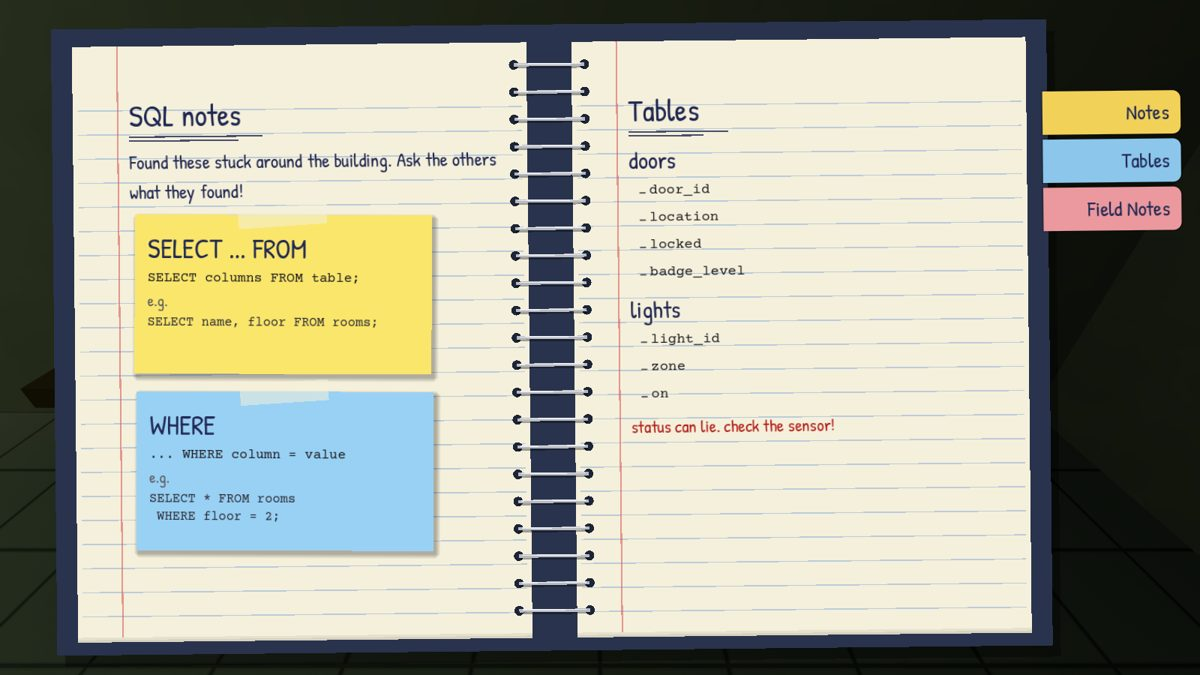
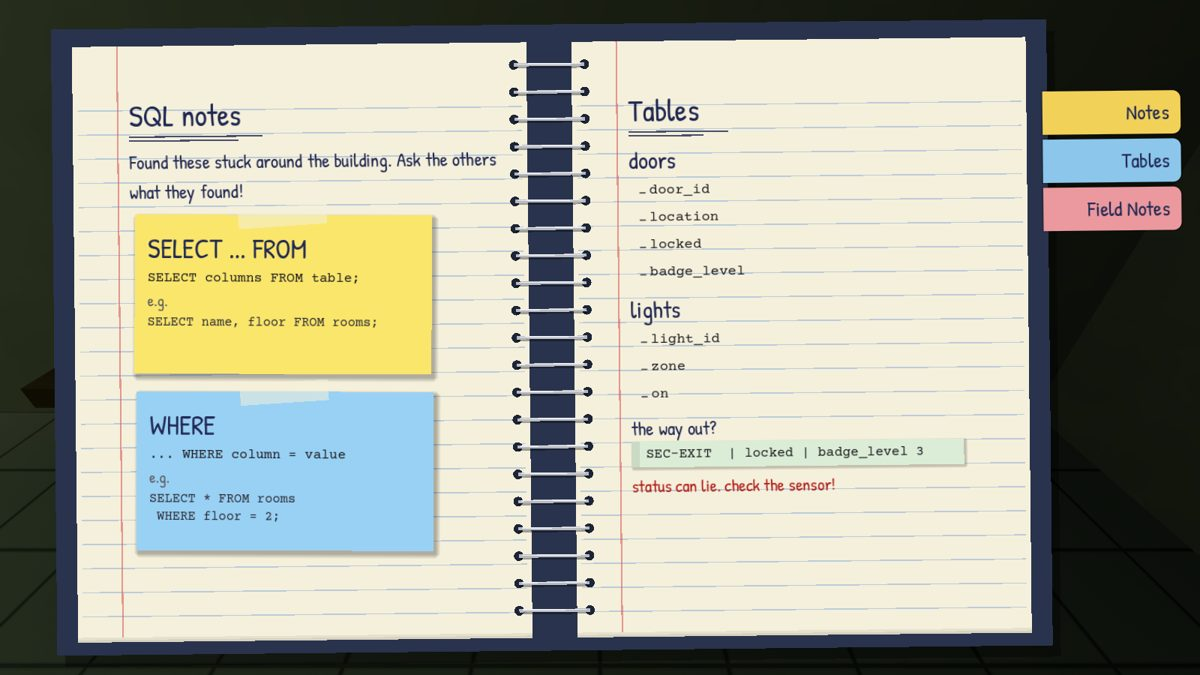
Notebook: copied terminal lines and a write-it-down button
NotebookArt.note_line(text, label) puts a copied terminal line on a strip of
green-bar printout with the player's handwritten label; write_button() is
the small yellow '+ note' tab for each terminal output line.

Claude-Session: https://claude.ai/code/session_01AoPeaLYq4smMJXAEmkaevH

Changed region(s): [[0.5242, 0.6222, 0.8017, 0.7467]]

diff --git a/docs/art/style-guide.md b/docs/art/style-guide.md
@@ -71,7 +71,7 @@ Designed ahead of the mechanics (game plan, "Notebook and elevators"). Playtest 
 
 - **Notebook UI** (`NotebookView`, `NotebookArt`): a 1997 spiral notebook on a navy pressboard cover, cream ruled pages with a red margin and wire coils. The player's notes are in handwriting (Patrick Hand); SQL is in a typewriter face (Courier Prime) so quotes, commas and `*` stay readable. Both fonts are OFL and ship in `assets/art/fonts/`. Put the view on CanvasLayer 15: above VHS (3), below the terminal (20).
   - `book.left` / `book.right` are the pages; `add_tab("Notes")` adds an index tab and emits `tab_pressed`; `show_book()`, `hide_book()`, `turn_page(callable)`, `clear_pages()`.
-  - `NotebookArt.sticky(keyword, syntax, example, color)` is a found note taped onto a page; `table_card(name, columns)` is a table written down for the Tables page; `heading()`, `hand()`, `code()`, `margin_note()` for the rest (Field Notes too).
+  - `NotebookArt.sticky(keyword, syntax, example, color)` is a found note taped onto a page; `table_card(name, columns)` is a table written down for the Tables page; `note_line(text, label)` is a terminal line copied in, a strip of green-bar printout with the player's handwritten label; `write_button()` is the small yellow "+ note" tab to put beside each terminal output line; `heading()`, `hand()`, `code()`, `margin_note()` for the rest (Field Notes too).
 - **Sticky notes in the world** (`ArtProps.sticky_note(parent, pos, facing, keyword, color, flat_on_desk)`): 7.6 cm notes in canary, pink, blue or green (`ArtProps.STICKY_COLORS`), one keyword in handwriting, a strip of tape, never stuck on quite straight. They glow very faintly so a note can be spotted on a dark desk. Stick one to a CRT bezel (the corner at about `+0.17, +0.32` from the monitor's origin) or lay it on a desk top (y 0.762). Visual only: parent it under the Interactable that picks it up.
 - **Elevator** (`ArtElevator.build(parent, pos, facing, interior, floors)`): brushed-steel car with center-opening doors, wood handrail, warm ceiling light, a button panel inside, a call button outside and amber floor indicators above the doors on both sides. Origin is the middle of the doorway at floor level, facing -Z (you walk in along +Z); the landing face stands 5 cm proud, so end the wing's wall flush with z = 0. It adds no collision: the mechanics own the shaft and doors and drive the look with `open_amount` (0 shut to 1 open; tween it), `set_floor("B1")`, `set_direction(-1/0/1)`, `light_button("B1")`, `light_call()` and `set_car_light(scale)` for a power cut mid-ride.
 
